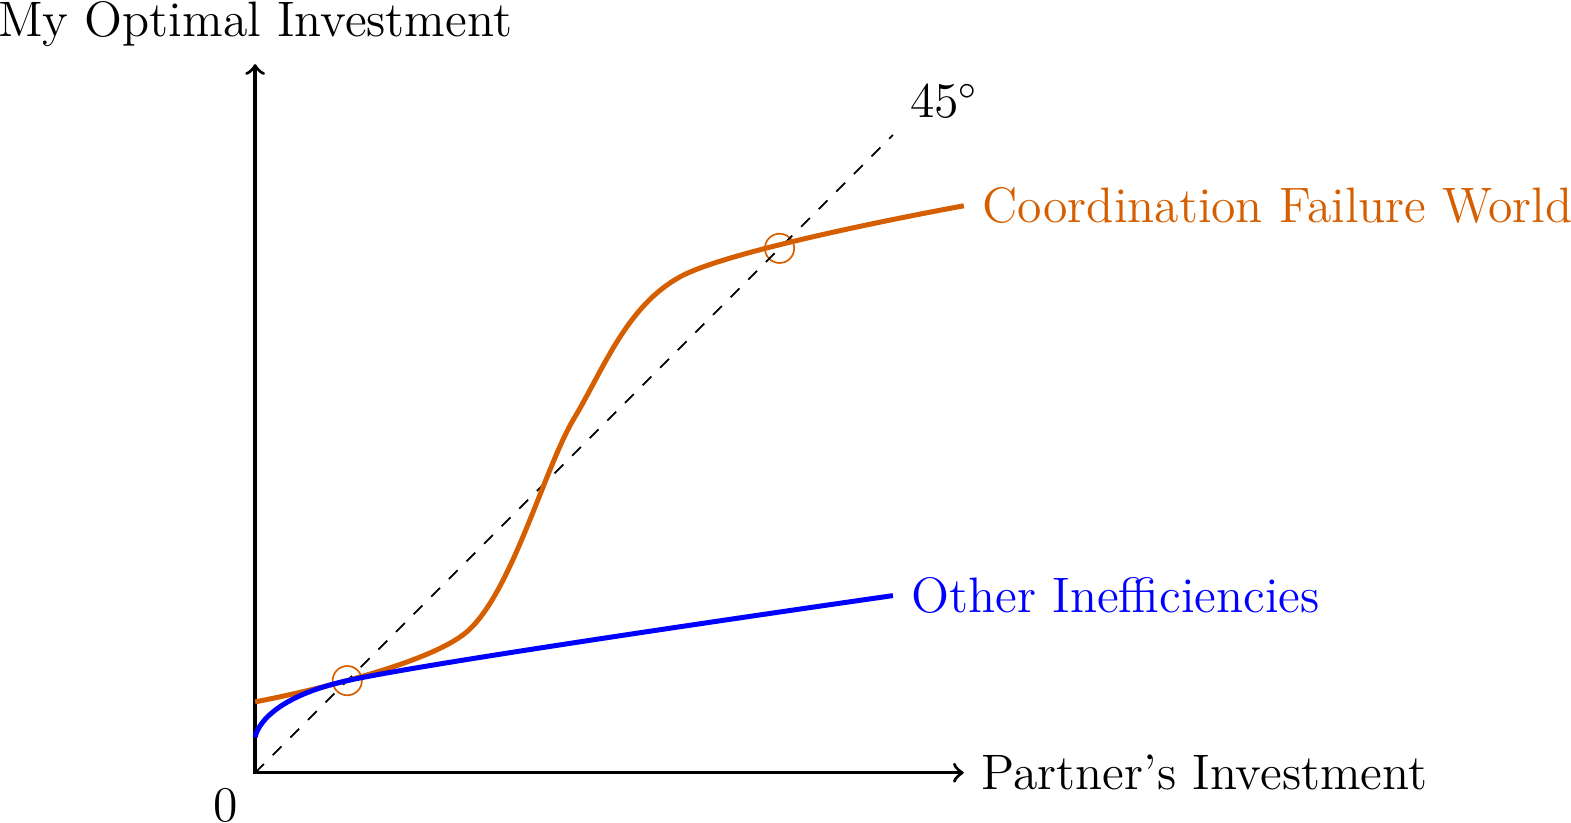
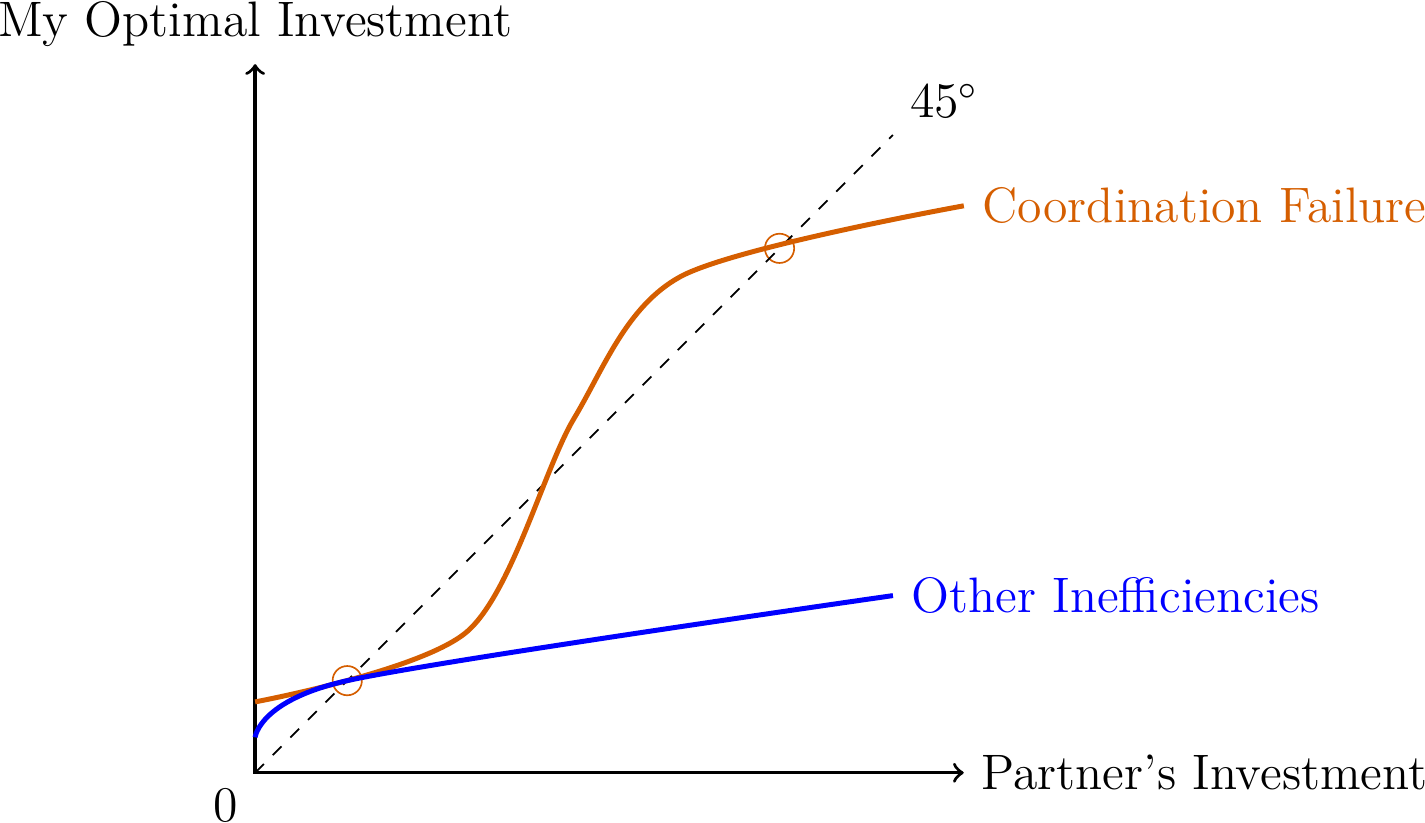
m e

diff --git a/docs/slides/tikz_charts/jmp2.tex b/docs/slides/tikz_charts/jmp2.tex
@@ -208,7 +208,7 @@ $ $
 	\coordinate [] (AA) at (0,.5);
 	\coordinate [] (BB) at (1.3,1.3);
 	\coordinate [] (CC) at (9,2.5);
-	\draw[very thick,red] plot [smooth] coordinates { (A) (B) (C) (D) (E) }node[right]{Coordination Failure World};
+	\draw[very thick,red] plot [smooth] coordinates { (A) (B) (C) (D) (E) }node[right]{Coordination Failure};
 	
 	\draw[very thick,blue] plot [smooth] coordinates { (AA) (BB) (CC)}node[right]{Other Inefficiencies};
 	
